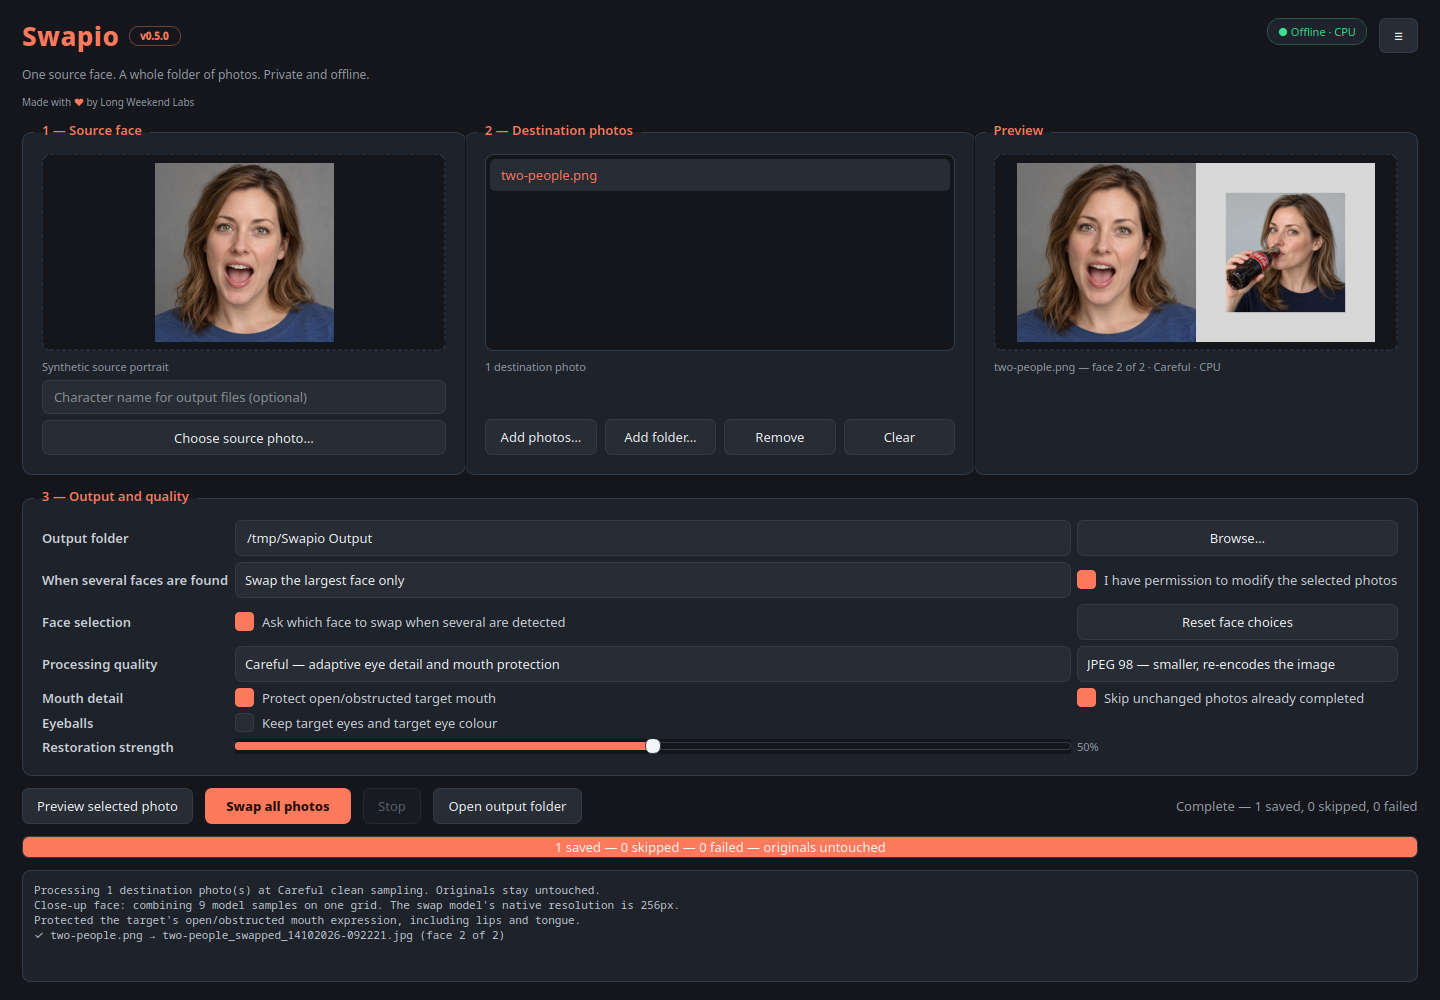
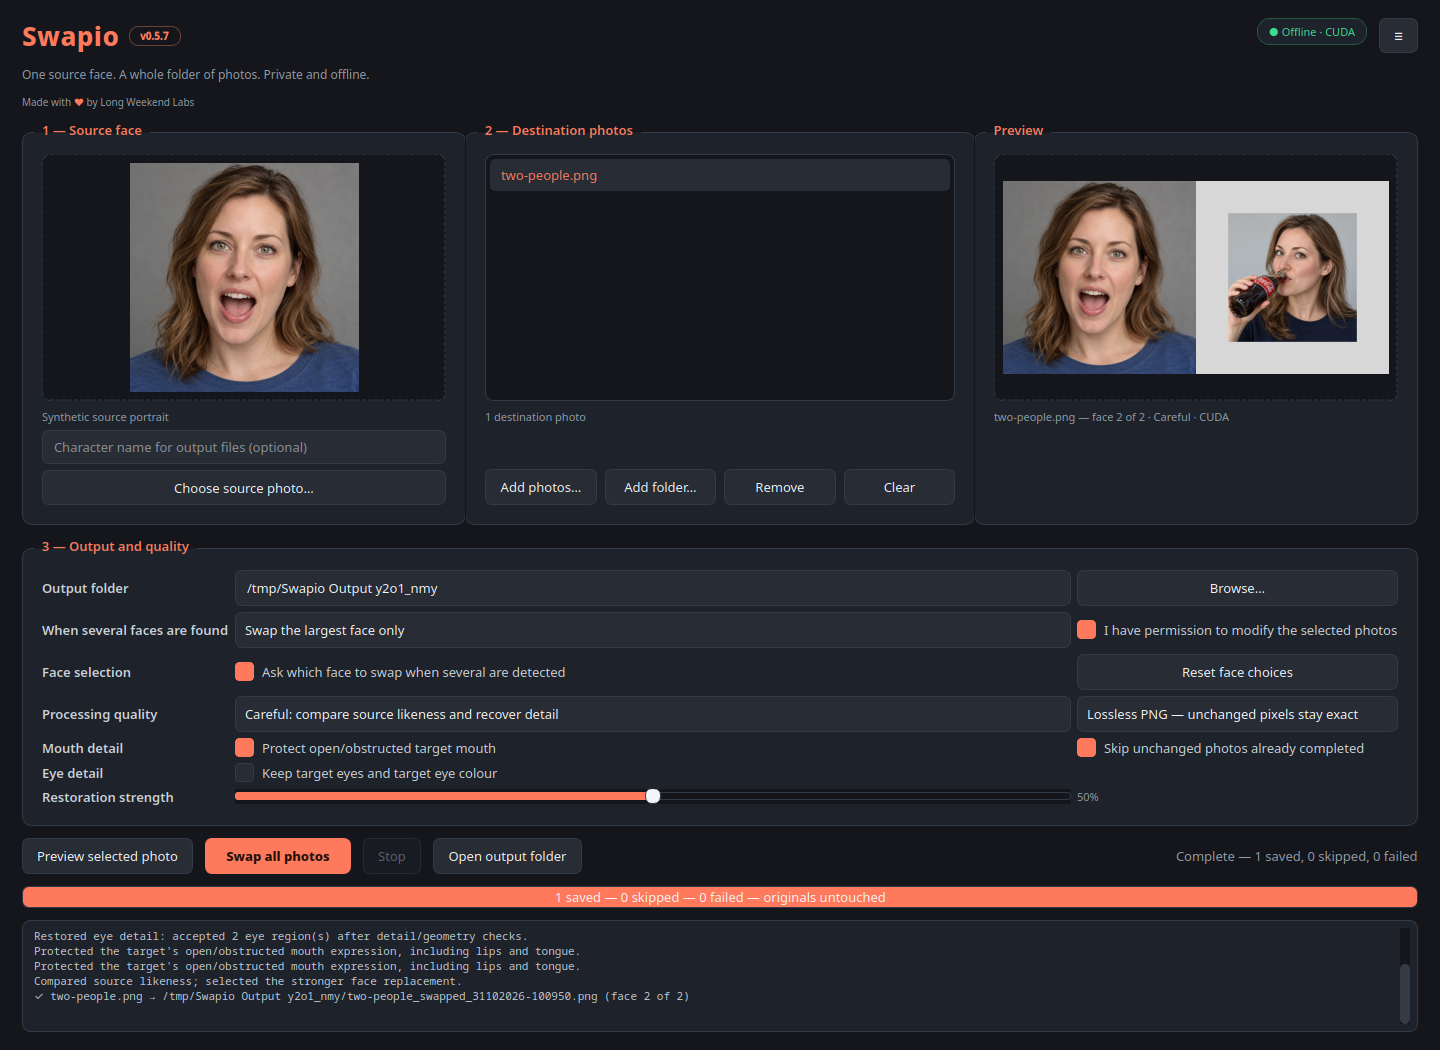
fix: verify installed-package independence and document CUDA recovery [skip ci]

diff --git a/docs/index.html b/docs/index.html
@@ -18,10 +18,10 @@
     <header><div class="brand">Swapio<small>Long Weekend Labs</small></div><nav class="nav"><a href="#how">How it works</a><a class="button" href="https://github.com/longweekendlabs/swapio/releases/latest">Download</a></nav></header>
     <main>
       <section class="hero"><p class="eyebrow">Offline batch face swapping</p><h1>One face in.<br>A whole folder out.</h1><p class="lead">Pick one source portrait and swap it into every destination photo in a folder. Preview the result, choose the faces to change, and keep the rest of each image intact.</p><div class="actions"><a class="button" href="https://github.com/longweekendlabs/swapio/releases/latest">Download the latest release</a><a class="ghost" href="https://github.com/longweekendlabs/swapio">View on GitHub</a></div></section>
-      <img class="shot" src="screenshots/hero.png" alt="Swapio showing a synthetic source portrait beside a grid of completed face-swap results">
-      <section class="statement" id="how"><h2>Built for the batch, not the demo.</h2><div class="copy"><p>Feed Swapio individual photos or a folder tree. Failed files are reported without stopping the run, and a repeated batch skips photos that have not changed.</p><div class="metric"><strong>4</strong><span>quality modes, from quick drafts<br>to high-detail rebuilding</span></div></div></section>
-      <section class="feature"><div class="feature-grid"><div><p class="eyebrow">Visible progress</p><h2>See the queue move.</h2><p>Track the current file, completed results, and anything that needs attention. Original photos are never modified.</p></div><img class="shot" src="screenshots/batch-run.png" alt="Swapio processing a folder of synthetic portraits with progress and completed outputs visible"></div></section>
-      <aside class="privacy"><strong>Your photos stay on your machine.</strong><p>After the one-time model download, Swapio does not use the network. Linux packages are available for x86_64 and arm64.</p></aside>
+      <img class="shot" src="screenshots/hero.png" alt="Swapio showing a synthetic source portrait beside a selected-person face-swap preview">
+      <section class="statement" id="how"><h2>Choose the person. Keep the batch moving.</h2><div class="copy"><p>Feed Swapio individual photos or a folder tree. Choose a numbered face when a photo contains several people; single-face photos continue automatically. Repeat a batch to skip unchanged photos already saved.</p><p>If identity swapping runs out of GPU memory, the same selected face is retried on CPU. Failed photos are reported separately from saved results, with the actual errors available to inspect.</p><div class="metric"><strong>4</strong><span>quality modes, from quick drafts<br>to face restoration</span></div></div></section>
+      <section class="feature"><div class="feature-grid"><div><p class="eyebrow">Visible progress</p><h2>See the queue move.</h2><p>Track the current file, completed results, and anything that needs attention. Original photos are never modified.</p></div><img class="shot" src="screenshots/batch-run.png" alt="Swapio showing a completed synthetic portrait batch with its saved count and output path"></div></section>
+      <aside class="privacy"><strong>Your photos stay on your machine.</strong><p>After the one-time model download, Swapio does not use the network. Installed models stay in your user data folder; the app runs independently of its source code. Linux packages are available for x86_64 and arm64.</p></aside>
     </main>
     <footer><span>© 2026 Long Weekend Labs</span><span>Free and open source · MIT</span></footer>
   </div>

diff --git a/package_diagnostics.py b/package_diagnostics.py
@@ -1,0 +1,68 @@
+"""Explicit installed-package checks, without GUI prompts or saved preferences."""
+from __future__ import annotations
+
+import argparse
+import json
+import sys
+from pathlib import Path
+
+import numpy as np
+
+import core
+from version import VERSION
+
+
+def self_test_swap(arguments: list[str]) -> int:
+    parser = argparse.ArgumentParser(description="Run a real offline packaged face swap.")
+    parser.add_argument("--self-test-swap", action="store_true", required=True)
+    parser.add_argument("--source", type=Path, required=True)
+    parser.add_argument("--target", type=Path, required=True)
+    parser.add_argument("--output", type=Path, required=True, help="Diagnostic output folder")
+    parser.add_argument("--face-index", type=int, default=0, help="Zero-based target face index")
+    parser.add_argument("--cpu", action="store_true")
+    args = parser.parse_args(arguments)
+    output = args.output.expanduser().resolve()
+    output.mkdir(parents=True, exist_ok=True)
+    engine = core.SwapEngine(use_gpu=not args.cpu)
+    report = {
+        "version": VERSION,
+        "executable": sys.executable,
+        "frozen": bool(getattr(sys, "frozen", False)),
+        "models": str(engine.models.resolve()),
+        "face_index": args.face_index,
+        "passed": False,
+    }
+    try:
+        if args.face_index < 0:
+            raise ValueError("Face index must be nonnegative")
+        choices = []
+
+        def choose(_path, _image, faces):
+            choices.append({"detected": len(faces), "selected": args.face_index})
+            return args.face_index
+
+        summary = engine.batch(
+            args.source, [args.target], output, quality="careful", output_format="png",
+            face_selector=choose, skip_completed=False,
+            on_log=lambda message: print(message, flush=True),
+        )
+        report.update(summary=summary, choices=choices)
+        if summary["completed"] != 1 or summary["failed"]:
+            raise RuntimeError("Diagnostic swap failed; see summary.errors")
+        original = core.load_image(args.target)
+        saved = core.load_image(summary["outputs"][0])
+        if saved is None or original is None or saved.shape != original.shape:
+            raise RuntimeError("Export did not decode with the original image dimensions")
+        if np.array_equal(saved, original):
+            raise RuntimeError("Export is identical to the target; no changed pixels")
+        report["providers"] = {
+            "identity": engine.swapper.session.get_providers(),
+            "detail": engine.hyperswap.get_providers(),
+            "restoration": engine.enhancer.get_providers() if engine.enhancer else [],
+        }
+        report["passed"] = True
+    except Exception as exc:
+        report["error"] = f"{type(exc).__name__}: {exc}"
+    (output / "swapio-self-test.json").write_text(json.dumps(report, indent=2) + "\n")
+    print(json.dumps(report), flush=True)
+    return 0 if report["passed"] else 1

diff --git a/tests/test_model_setup.py b/tests/test_model_setup.py
@@ -20,6 +20,28 @@ QT_APP = QApplication.instance() or QApplication([])
 
 
 class ModelSetupTests(unittest.TestCase):
+    def test_frozen_model_lookup_uses_user_data_even_from_a_complete_source_checkout(self):
+        import sys
+        with tempfile.TemporaryDirectory() as temp:
+            root = Path(temp)
+            bundle = root / "installed" / "_internal"
+            bundle.mkdir(parents=True)
+            checkout = root / "Projects" / "swapio"
+            for name in core.missing_models(checkout / "models"):
+                path = checkout / "models" / name
+                path.parent.mkdir(parents=True, exist_ok=True)
+                path.touch()
+            previous = Path.cwd()
+            try:
+                os.chdir(checkout)
+                with patch.object(sys, "frozen", True, create=True), patch.object(
+                    sys, "_MEIPASS", str(bundle), create=True
+                ), patch.dict(os.environ, {"XDG_DATA_HOME": str(root / "user-data"),
+                                           "SWAPIO_MODEL_DIR": ""}):
+                    self.assertEqual(core.model_dir(), root / "user-data" / "swapio" / "models")
+            finally:
+                os.chdir(previous)
+
     def test_release_version(self):
         self.assertRegex(VERSION, r"^\d+\.\d+\.\d+$")
 

diff --git a/app.py b/app.py
@@ -1436,6 +1436,10 @@ def main():
     if ICON_PATH.exists():
         app.setWindowIcon(QIcon(str(ICON_PATH)))
     app.setFont(QFont("Inter", 10))
+    if "--self-test-swap" in sys.argv:
+        from package_diagnostics import self_test_swap
+
+        sys.exit(self_test_swap(sys.argv[1:]))
     if "--self-test-output" in sys.argv:
         import argparse
 

diff --git a/version.py b/version.py
@@ -1,7 +1,7 @@
 """Single source of truth for Swapio release and publisher metadata."""
 
 APP_NAME = "Swapio"
-VERSION = "0.5.6"
+VERSION = "0.5.7"
 ORGANIZATION = "Long Weekend Labs"
 COPYRIGHT = "© 2026 Long Weekend Labs"
 GITHUB_URL = "https://github.com/longweekendlabs/swapio"

diff --git a/README.md b/README.md
@@ -12,17 +12,17 @@ Swapio is free.
 
 ### [Download the latest release](https://github.com/longweekendlabs/swapio/releases/latest)
 
-![Swapio showing a synthetic source portrait beside completed face-swap results](docs/screenshots/hero.png)
+![Swapio showing a synthetic source portrait beside a selected-person face-swap preview](docs/screenshots/hero.png)
 
 ## One face in, a whole folder out
 
 One source portrait per run. Feed it individual photos or a whole folder tree and preview the result before you commit. Swap the largest face, every detected face, or enable "Ask which face to swap when several are detected" to choose a person from numbered thumbnails. Single-face photos continue automatically; you can skip a photo or stop the batch while choosing.
 
-Repeat a batch and it processes only new or changed photos by default. A photo that fails is skipped and reported at the end rather than killing the run, so a bad file in the middle of two hundred does not cost you the batch.
+Repeat a batch and it processes only new or changed photos by default. A failed photo does not stop the rest of the run. The final warning separates saved, skipped and failed photos and includes the actual errors; failed photos have no new output. Successful saves show their full paths in the log.
 
 ![Swapio's numbered face picker with the smaller person selected](docs/screenshots/face-selection.png)
 
-![Swapio processing a folder of synthetic portraits with progress and completed outputs visible](docs/screenshots/batch-run.png)
+![Swapio showing a completed synthetic portrait batch with its saved count and output path](docs/screenshots/batch-run.png)
 
 ## Four quality modes, and they mean something
 
@@ -32,7 +32,7 @@ Stronger replacements receive limited detail restoration, checked again against 
 
 Best adds whole-face restoration, which can also change eyes and lips. Balanced uses fewer samples, and Fast is available for drafts. These modes cannot guarantee an exact likeness or recover every detail in a close-up.
 
-On an NVIDIA machine, detection, both face models and face restoration can use CUDA. The detail model uses conservative GPU settings to avoid invalid output, and automatically retries on CPU if CUDA fails. Restoration also has a checked CPU fallback.
+On an NVIDIA machine, detection, both face models and face restoration can use CUDA. Conservative workspace settings leave room for the models to run together. If identity swapping runs out of GPU memory, Swapio retries the same selected face on CPU and keeps that recovered session for later photos. Detail swapping and restoration also have checked CPU fallbacks. The log reports these changes.
 
 ## What it preserves
 
@@ -40,13 +40,15 @@ Swapio replaces facial features within the destination photo. The body, hair, ba
 
 Mouth protection keeps the target's open or obstructed expression together, including lips, teeth and tongue. Closed, unobstructed lips stay generated. Foreground protection helps retain objects and hair crossing the face.
 
-Target-eye preservation is off by default. Enabling it copies the target's eye interiors and eye colour into the swapped face. Leaving it off uses generated eyes, whose colour is not guaranteed to match the source exactly. Oriented pixels and safe EXIF and ICC metadata are retained where possible. Original files are never modified.
+Target-eye preservation is off by default. Enabling it keeps the target's eye interiors, eyelids, lashes and eye colour in the swapped face. Leaving it off uses generated eyes, whose colour is not guaranteed to match the source exactly. Oriented pixels and safe EXIF and ICC metadata are retained where possible. Original files are never modified.
 
 ## Download
 
 RPM, DEB and AppImage, for Linux on x86_64 and arm64. Grab one from the [latest release](https://github.com/longweekendlabs/swapio/releases/latest).
 
 The package carries no face models and no CUDA libraries. On first launch Swapio lists the models it needs, downloads them from their original publishers, verifies each checksum, and then never touches the network again. On an NVIDIA machine it uses the CUDA you already have; without one it runs on CPU.
+
+Installed models live in your user data folder. The installed app runs independently of the source code and development environment.
 
 ## Formats and naming
 

diff --git a/CHANGELOG.md b/CHANGELOG.md
@@ -2,6 +2,12 @@
 
 ## [Unreleased]
 
+## [0.5.7] - 2026-10-31
+
+### Added
+
+- An explicit installed-package diagnostic runs a real selected-face swap and writes a verification report without changing saved preferences.
+
 ### Fixed
 
 - Recover identity-model CUDA failures by retrying the same selected face on CPU and retaining that recovery for the session, instead of failing subsequent photos too.
@@ -9,7 +15,6 @@
 - Show failed batches as warnings with the first error and expandable failure details. Failed photos are explicitly reported as having no new output.
 - Notify KDE file-manager views after saved photos and again at batch completion, so missed filesystem updates do not leave Dolphin showing an empty output folder.
 - Log full output paths and reject missing or empty output files before reporting them saved.
-- Revert the rejected source-appearance renderer and restore the previous face-swap pipeline, restoration slider, and mouth handling. Existing CUDA fixes remain. Previous experimental outputs are eligible for reprocessing.
 - Recover generated eye texture at smaller sizes too, and reuse restoration detail in Careful and Best instead of leaving blurred lids in partially restored faces.
 - Target-eye preservation now includes eyelids and lashes instead of keeping sharp eyeballs inside blurred generated lids.
 - Restore CUDA quality swapping with conservative GPU kernel settings and a checked CPU retry for invalid output or GPU failures.
